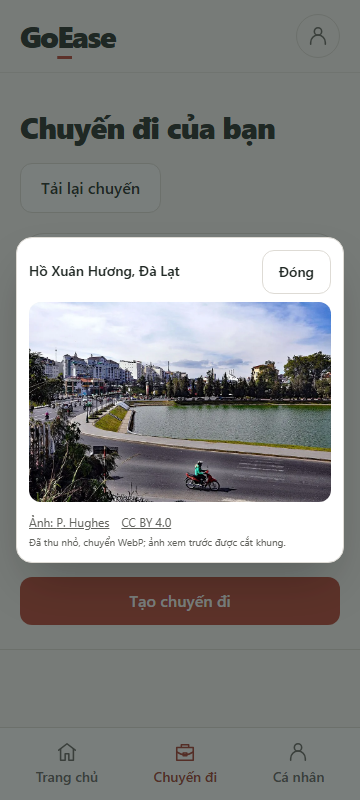
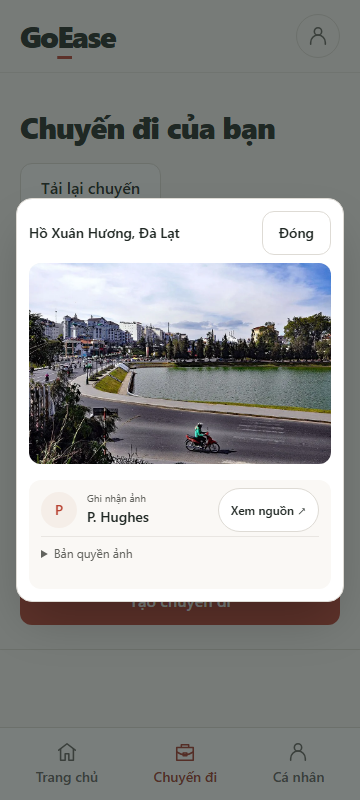
feat(web): animate photo viewer and refine photo credits

diff --git a/apps/web/src/features/trips/travel-photo.tsx b/apps/web/src/features/trips/travel-photo.tsx
@@ -25,9 +25,14 @@ function PhotoChain({
 }) {
   const [index, setIndex] = useState(0);
   const [opened, setOpened] = useState(false);
+  const [closing, setClosing] = useState(false);
   const dialog = useRef<HTMLDialogElement>(null);
   const titleId = useId();
   const photo = photos[index];
+  const closeViewer = () => {
+    if (matchMedia('(prefers-reduced-motion: reduce)').matches) dialog.current?.close();
+    else setClosing(true);
+  };
   if (!photo) return null;
   return (
     <figure className={`${className} min-w-0`} data-travel-photo>
@@ -36,10 +41,11 @@ function PhotoChain({
         aria-label={`Thông tin ảnh: ${photo.alt}`}
         aria-haspopup="dialog"
         onClick={() => {
+          setClosing(false);
           setOpened(true);
           dialog.current?.showModal();
         }}
-        className={`block w-full overflow-hidden rounded-xl bg-sand ${cover ? 'aspect-[16/7]' : 'h-20 sm:h-28'}`}
+        className={`photo-thumbnail block w-full overflow-hidden rounded-xl bg-sand ${cover ? 'aspect-[16/7]' : 'h-20 sm:h-28'}`}
       >
         <img
           src={photo.src}
@@ -56,7 +62,18 @@ function PhotoChain({
       <dialog
         ref={dialog}
         aria-labelledby={titleId}
-        onClose={() => setOpened(false)}
+        data-closing={closing || undefined}
+        onClose={() => {
+          setOpened(false);
+          setClosing(false);
+        }}
+        onCancel={(event) => {
+          event.preventDefault();
+          closeViewer();
+        }}
+        onAnimationEnd={(event) => {
+          if (closing && event.target === event.currentTarget) dialog.current?.close();
+        }}
         onClick={(event) => {
           if (event.target !== event.currentTarget) return;
           const bounds = event.currentTarget.getBoundingClientRect();
@@ -66,20 +83,24 @@ function PhotoChain({
             event.clientY < bounds.top ||
             event.clientY > bounds.bottom
           )
-            dialog.current?.close();
+            closeViewer();
         }}
-        className="fixed inset-0 m-auto max-h-[calc(100dvh-2rem)] w-[calc(100%-2rem)] max-w-5xl overflow-y-auto rounded-2xl border border-line bg-paper p-3 text-ink shadow-2xl backdrop:bg-ink/60 sm:p-5"
+        className="photo-viewer fixed inset-0 m-auto max-h-[calc(100dvh-2rem)] w-[calc(100%-2rem)] max-w-5xl overflow-y-auto rounded-2xl border border-line bg-paper p-3 text-ink shadow-2xl backdrop:bg-ink/60 sm:p-5"
       >
         <h2 id={titleId} className="sr-only">
           Thông tin ảnh
         </h2>
         <div className="mb-2 flex items-center justify-between gap-3">
           <p className="text-sm font-semibold">{photo.alt}</p>
-          <form method="dialog">
-            <button className="min-h-11 rounded-xl border border-line px-4 text-sm font-semibold">
+          <div>
+            <button
+              type="button"
+              onClick={closeViewer}
+              className="min-h-11 rounded-xl border border-line px-4 text-sm font-semibold"
+            >
               Đóng
             </button>
-          </form>
+          </div>
         </div>
         {opened && (
           <img
@@ -91,26 +112,48 @@ function PhotoChain({
             onError={() => setIndex((value) => value + 1)}
           />
         )}
-        <div className="mt-3 flex flex-wrap items-baseline gap-x-3 gap-y-1 text-xs text-muted">
-          <a className="underline" href={photo.sourceUrl} target="_blank" rel="noopener noreferrer">
-            Ảnh: {photo.author}
-          </a>
-          {photo.licenseUrl && (
+        <div className="mt-4 rounded-xl bg-cream px-3 py-2 sm:px-4">
+          <div className="flex flex-wrap items-center justify-between gap-2">
+            <div className="flex min-w-0 flex-1 items-center gap-2.5">
+              <span
+                aria-hidden="true"
+                className="grid size-9 shrink-0 place-items-center rounded-full bg-sand text-sm font-semibold text-teal"
+              >
+                {photo.author.slice(0, 1).toUpperCase()}
+              </span>
+              <div className="min-w-0">
+                <p className="text-[10px] text-muted">Ghi nhận ảnh</p>
+                <p className="text-sm font-medium break-words">{photo.author}</p>
+              </div>
+            </div>
             <a
-              className="underline"
-              href={photo.licenseUrl}
+              className="inline-flex min-h-11 shrink-0 items-center rounded-full border border-line bg-paper px-3 text-xs font-medium text-ink transition-colors hover:border-teal hover:text-teal"
+              href={photo.sourceUrl}
               target="_blank"
               rel="noopener noreferrer"
             >
-              {photo.license}
+              Xem nguồn ↗
             </a>
+          </div>
+          {photo.licenseUrl && (
+            <details className="mt-1 border-t border-line/60 text-xs text-muted">
+              <summary className="font-normal">Bản quyền ảnh</summary>
+              <div className="pb-2">
+                <a
+                  className="text-teal underline underline-offset-4"
+                  href={photo.licenseUrl}
+                  target="_blank"
+                  rel="noopener noreferrer"
+                >
+                  {photo.license}
+                </a>
+                <p className="mt-2 leading-relaxed">
+                  Ảnh đã được thu nhỏ; ảnh xem trước được cắt khung.
+                </p>
+              </div>
+            </details>
           )}
         </div>
-        {photo.licenseUrl && (
-          <p className="mt-1 text-[10px] text-muted">
-            Đã thu nhỏ, chuyển WebP; ảnh xem trước được cắt khung.
-          </p>
-        )}
       </dialog>
     </figure>
   );

diff --git a/apps/web/src/tailwind.css b/apps/web/src/tailwind.css
@@ -124,6 +124,65 @@
   }
 }
 
+@keyframes photo-viewer-in {
+  from {
+    opacity: 0;
+    transform: translateY(12px) scale(0.97);
+  }
+  to {
+    opacity: 1;
+    transform: translateY(0) scale(1);
+  }
+}
+@keyframes photo-viewer-out {
+  from {
+    opacity: 1;
+    transform: scale(1);
+  }
+  to {
+    opacity: 0;
+    transform: translateY(8px) scale(0.98);
+  }
+}
+@keyframes photo-backdrop-in {
+  from {
+    opacity: 0;
+  }
+  to {
+    opacity: 1;
+  }
+}
+@keyframes photo-backdrop-out {
+  from {
+    opacity: 1;
+  }
+  to {
+    opacity: 0;
+  }
+}
+.photo-viewer[open] {
+  animation: photo-viewer-in 220ms cubic-bezier(0.2, 0.8, 0.2, 1) both;
+}
+.photo-viewer[open]::backdrop {
+  animation: photo-backdrop-in 220ms ease both;
+}
+.photo-viewer[data-closing] {
+  animation: photo-viewer-out 160ms ease both;
+}
+.photo-viewer[data-closing]::backdrop {
+  animation: photo-backdrop-out 160ms ease both;
+}
+.photo-thumbnail img {
+  transition: transform 260ms cubic-bezier(0.2, 0.8, 0.2, 1);
+}
+@media (hover: hover) and (prefers-reduced-motion: no-preference) {
+  .photo-thumbnail:hover img {
+    transform: scale(1.035);
+  }
+}
+.photo-thumbnail:active img {
+  transform: scale(0.99);
+}
 @media (prefers-reduced-motion: reduce) {
   *,
   *::before,

diff --git a/docs/qa/warm-refinement/README.md b/docs/qa/warm-refinement/README.md
@@ -128,3 +128,8 @@ The user clarified that only the “Ảnh minh họa” badge and credits below 
 ### Enlarge photos on click — 2026-10-21
 
 Clicking a trip/activity image now opens a wider photo viewer. The full image fits the viewport without cropping; source/author and license links sit underneath in small text. Closed viewers do not load an additional image. Native dialog behavior retains keyboard focus and supports Escape and the Close button. Build/lint and five affected browser flows pass, with image enlargement, credit placement and mobile/desktop bounds checked. New `after/*-photo.png` screenshots show the viewer at 360/390/1440px.
+
+
+### Photo motion and attribution layout — 2026-10-21
+
+The viewer now fades/scales in (220 ms) and out (160 ms); desktop thumbnails have a subtle hover zoom. Escape, Close and backdrop clicks share the exit behavior. Reduced-motion preference skips the animated exit and suppresses hover zoom. Attribution is a compact author card with a separate source button; license and transformation details are collapsed under “Bản quyền ảnh”. Build/lint and the five affected browser scenarios pass, including normal animation, reduced-motion layouts, attribution expansion and backdrop closing. Viewer screenshots updated.
